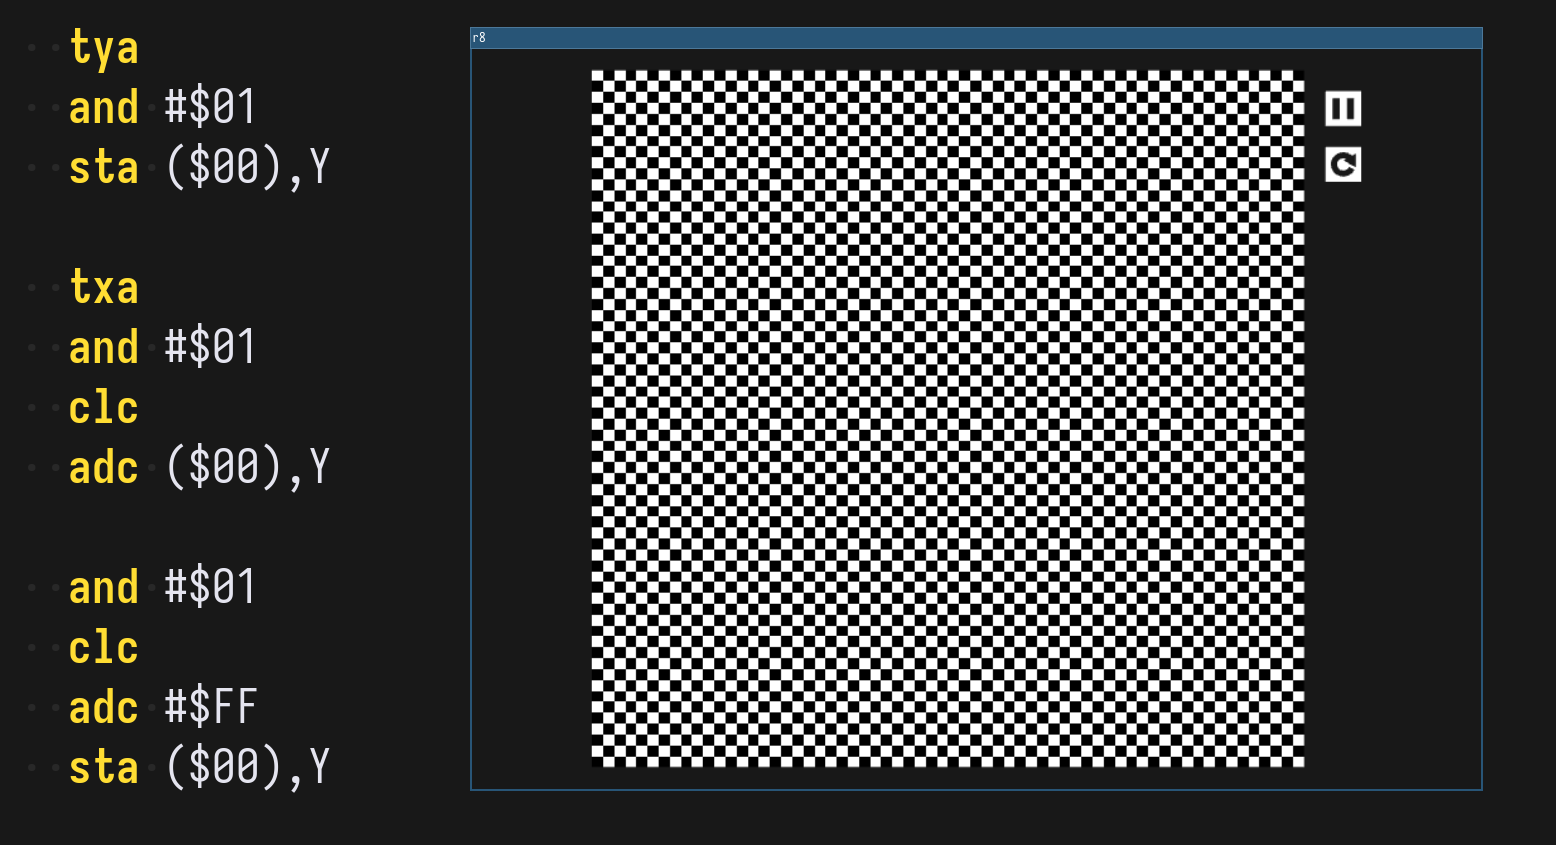
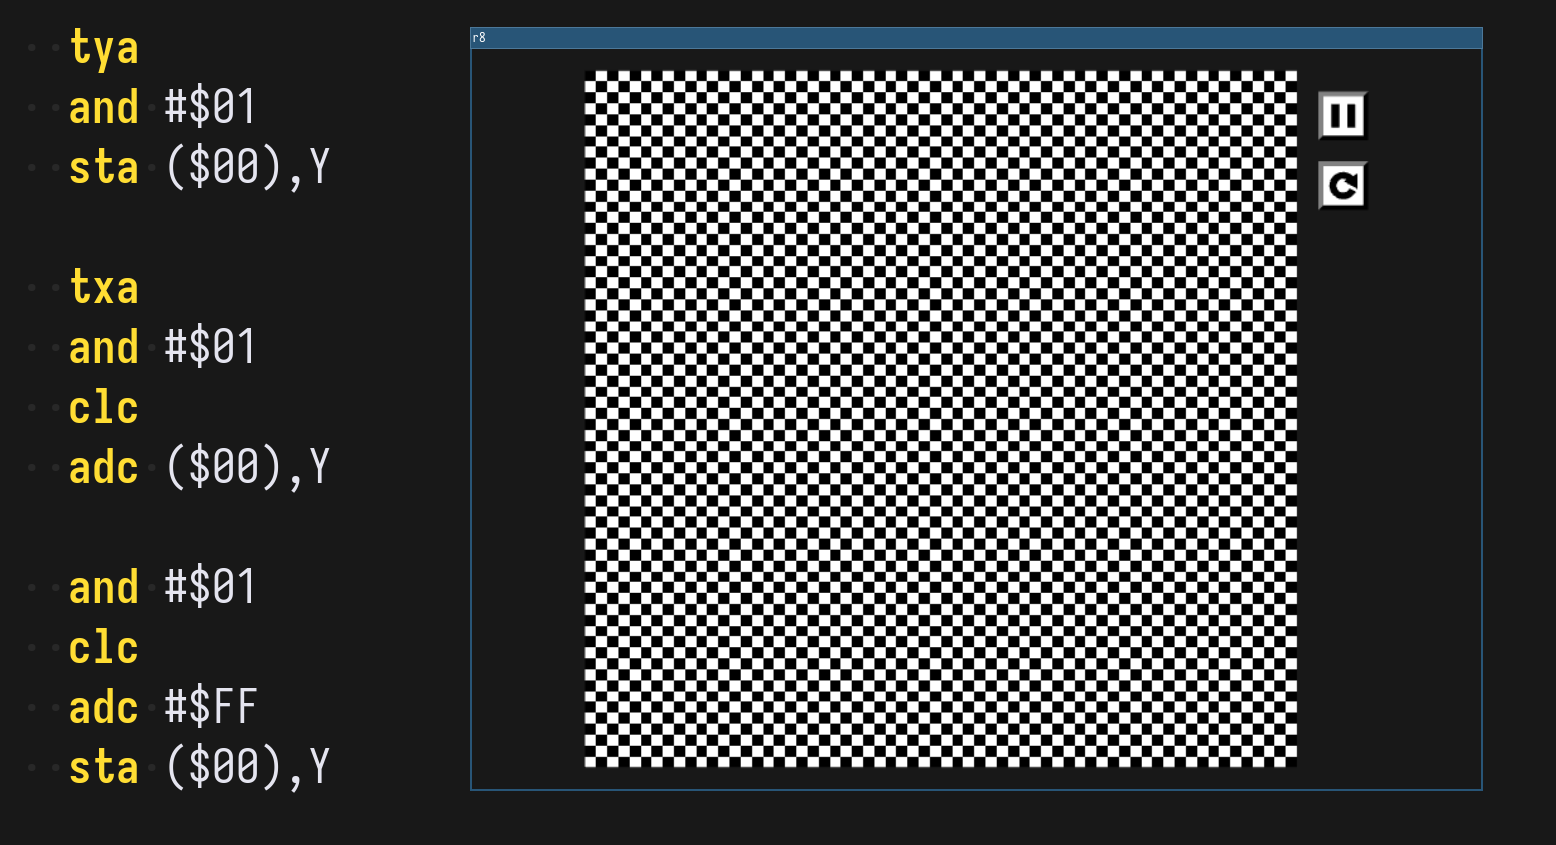
Give buttons retro 3D look and feel

Changed region(s): [[0.3702, 0.0615, 0.8946, 0.9231]]

diff --git a/src/r8.c b/src/r8.c
@@ -6,6 +6,7 @@
 #include "raylib.h"
 #include "raymath.h"
 #include "no_rom.c"
+#include "ui.h"
 
 #define UI_FPS 60 // The FPS the UI is running at
 #define DEFAULT_EMU_FPS 5 // Default FPS the 6502 emulator is running at
@@ -83,13 +84,6 @@ bool reload_rom(String_Builder *rom, const char *rom_path)
     return true;
 }
 
-void box_pad(Rectangle *a, float pad);
-void box_merge(Rectangle *a, Rectangle b);
-void play_icon(Rectangle button_box, Color color);
-void pause_icon(Rectangle button_box, Color color);
-void reset_icon(Rectangle button_box, Color color, Color background_color);
-bool button(Rectangle button_box, Camera2D camera, Color color);
-
 int main(int argc, char **argv)
 {
     const char *program_name = shift(argv, argc);
@@ -127,6 +121,8 @@ int main(int argc, char **argv)
     float global_timer = 0;
     bool pause = false;
     Rectangle ui_box = {0};
+    bool pause_button_down = false;
+    bool reset_button_down = false;
     while (!WindowShouldClose()) {
         if (IsKeyPressed(KEY_R) && IsKeyDown(KEY_LEFT_CONTROL)) {
             reload_rom(&rom, rom_path);
@@ -194,27 +190,24 @@ int main(int argc, char **argv)
                 Rectangle button_box = {0};
                 button_box.x      = canvas_box.x + canvas.width + margin_between_canvas_and_buttons;
                 button_box.y      = canvas_box.y + margin_between_canvas_and_buttons;
-                button_box.width  = canvas_box.width*0.05;
+                button_box.width  = canvas_box.width*0.07;
                 button_box.height = button_box.width;
 
-                Color icon_color   = GetColor(BACKGROUND_COLOR);
-                Color button_color = WHITE;
-
                 // Toggle Pause Button
-                if (button(button_box, camera, button_color)) pause = !pause;
-                if (pause) play_icon(button_box, icon_color); else pause_icon(button_box, icon_color);
+                if (button(&pause_button_down, button_box, pause ? play_icon : pause_icon, camera)) {
+                    pause = !pause;
+                }
                 box_merge(&ui_box, button_box);
 
                 // Reset Button
                 button_box.y += button_box.height + margin_between_canvas_and_buttons;
-                if (button(button_box, camera, button_color)) {
+                if (button(&reset_button_down, button_box, reset_icon, camera)) {
                     reload_rom(&rom, rom_path);
                     call_vector(ENTRY_POINT);
                 }
                 box_merge(&ui_box, button_box);
-                reset_icon(button_box, icon_color, WHITE);
 
-                box_pad(&ui_box, 2);
+                ui_box = box_pad(ui_box, 2);
             } EndMode2D();
         } EndDrawing();
     }
@@ -224,99 +217,4 @@ int main(int argc, char **argv)
     return 0;
 }
 
-void box_merge(Rectangle *a, Rectangle b)
-{
-    if (b.x < a->x) {
-        a->x = b.x;
-    }
-    if (b.y < a->y) {
-        a->y = b.y;
-    }
-    if (a->x + a->width < b.x + b.width) {
-        a->width = b.x + b.width;
-    }
-    if (a->y + a->height < b.y + b.height) {
-        a->height = b.y + b.height;
-    }
-}
-
-void box_pad(Rectangle *a, float pad)
-{
-    a->x      -= pad;
-    a->y      -= pad;
-    a->width  += pad*2;
-    a->height += pad*2;
-}
-
-void play_icon(Rectangle button_box, Color color)
-{
-    float icon_padding_left   = 0.3*button_box.width;
-    float icon_padding_right  = 0.2*button_box.width;
-    float icon_padding_top    = 0.2*button_box.width;
-    float icon_padding_bottom = 0.2*button_box.width;
-    Vector2 v1 = {button_box.x + icon_padding_left, button_box.y + icon_padding_top};
-    Vector2 v2 = {button_box.x + icon_padding_left, button_box.y + button_box.height - icon_padding_bottom};
-    Vector2 v3 = {button_box.x + button_box.width - icon_padding_right, button_box.y + button_box.height*0.5};
-    DrawTriangle(v1, v2, v3, color);
-}
-
-void pause_icon(Rectangle button_box, Color color)
-{
-    float icon_padding = 0.2*button_box.width;
-    Rectangle pause_icon_box = {
-        .x      = button_box.x + icon_padding,
-        .y      = button_box.y + icon_padding,
-        .width  = button_box.width - icon_padding - icon_padding,
-        .height = button_box.height - icon_padding - icon_padding,
-    };
-    DrawRectangleRec((Rectangle) {
-        .x      = pause_icon_box.x,
-        .y      = pause_icon_box.y,
-        .width  = pause_icon_box.width/3.,
-        .height = pause_icon_box.height,
-    }, color);
-    DrawRectangleRec((Rectangle) {
-        .x      = pause_icon_box.x + pause_icon_box.width*2./3.,
-        .y      = pause_icon_box.y,
-        .width  = pause_icon_box.width/3.,
-        .height = pause_icon_box.height,
-    }, color);
-}
-
-void reset_icon(Rectangle button_box, Color color, Color background_color)
-{
-    float radius = 0.35*fminf(button_box.width, button_box.height);
-
-    Vector2 center = {
-        .x = button_box.x + button_box.width*0.5,
-        .y = button_box.y + button_box.height*0.5,
-    };
-
-    float gap_angle = 50;
-    DrawCircleSector(center, radius, gap_angle*0.5, 360 - gap_angle*0.5, 20, color);
-    DrawCircleV(center, radius*0.5, background_color);
-
-    // Arrow
-    {
-        Vector2 v = {1, 0};
-        v = Vector2Rotate(v, -0.5*gap_angle*DEG2RAD);
-
-        Vector2 c = center;
-        c = Vector2Add(c, Vector2Scale(v, radius*0.75));
-
-        float size = 0.65*radius;
-        v = Vector2Rotate(v, 85*DEG2RAD);
-        Vector2 v1 = Vector2Add(c, Vector2Scale(v, size));
-        Vector2 v2 = Vector2Add(c, Vector2Scale(Vector2Rotate(v, -120*DEG2RAD), size));
-        Vector2 v3 = Vector2Add(c, Vector2Scale(Vector2Rotate(v, 120*DEG2RAD), size));
-        DrawTriangle(v1, v2, v3, color);
-    }
-}
-
-bool button(Rectangle button_box, Camera2D camera, Color color)
-{
-    DrawRectangleRec(button_box, color);
-    bool hover = CheckCollisionPointRec(GetScreenToWorld2D(GetMousePosition(), camera), button_box);
-    bool click = IsMouseButtonPressed(MOUSE_BUTTON_LEFT);
-    return (hover && click);
-}
+#include "ui.c"

diff --git a/src/ui.c b/src/ui.c
@@ -1,0 +1,134 @@
+#include "ui.h"
+
+#define ICON_COLOR         BLACK
+#define BUTTON_COLOR       WHITE
+#define BUTTON_SHADE_COLOR BLACK
+#define BUTTON_RIM_COLOR   GRAY
+
+void box_merge(Rectangle *a, Rectangle b)
+{
+    if (b.x < a->x) {
+        a->x = b.x;
+    }
+    if (b.y < a->y) {
+        a->y = b.y;
+    }
+    if (a->x + a->width < b.x + b.width) {
+        a->width = b.x + b.width;
+    }
+    if (a->y + a->height < b.y + b.height) {
+        a->height = b.y + b.height;
+    }
+}
+
+Rectangle box_pad(Rectangle a, float pad)
+{
+    a.x      -= pad;
+    a.y      -= pad;
+    a.width  += pad*2;
+    a.height += pad*2;
+    return a;
+}
+
+void play_icon(Rectangle box)
+{
+    float icon_padding_left   = 0.3*box.width;
+    float icon_padding_right  = 0.2*box.width;
+    float icon_padding_top    = 0.2*box.width;
+    float icon_padding_bottom = 0.2*box.width;
+    Vector2 v1 = {box.x + icon_padding_left, box.y + icon_padding_top};
+    Vector2 v2 = {box.x + icon_padding_left, box.y + box.height - icon_padding_bottom};
+    Vector2 v3 = {box.x + box.width - icon_padding_right, box.y + box.height*0.5};
+    DrawTriangle(v1, v2, v3, ICON_COLOR);
+}
+
+void pause_icon(Rectangle box)
+{
+    float icon_padding = 0.2*box.width;
+    Rectangle pause_icon_box = {
+        .x      = box.x + icon_padding,
+        .y      = box.y + icon_padding,
+        .width  = box.width - icon_padding - icon_padding,
+        .height = box.height - icon_padding - icon_padding,
+    };
+    DrawRectangleRec((Rectangle) {
+        .x      = pause_icon_box.x,
+        .y      = pause_icon_box.y,
+        .width  = pause_icon_box.width/3.,
+        .height = pause_icon_box.height,
+    }, ICON_COLOR);
+    DrawRectangleRec((Rectangle) {
+        .x      = pause_icon_box.x + pause_icon_box.width*2./3.,
+        .y      = pause_icon_box.y,
+        .width  = pause_icon_box.width/3.,
+        .height = pause_icon_box.height,
+    }, ICON_COLOR);
+}
+
+void reset_icon(Rectangle box)
+{
+    float radius = 0.35*fminf(box.width, box.height);
+
+    Vector2 center = {
+        .x = box.x + box.width*0.5,
+        .y = box.y + box.height*0.5,
+    };
+
+    float gap_angle = 50;
+    DrawCircleSector(center, radius, gap_angle*0.5, 360 - gap_angle*0.5, 20, ICON_COLOR);
+    DrawCircleV(center, radius*0.5, BUTTON_COLOR);
+
+    // Arrow
+    {
+        Vector2 v = {1, 0};
+        v = Vector2Rotate(v, -0.5*gap_angle*DEG2RAD);
+
+        Vector2 c = center;
+        c = Vector2Add(c, Vector2Scale(v, radius*0.75));
+
+        float size = 0.65*radius;
+        v = Vector2Rotate(v, 85*DEG2RAD);
+        Vector2 v1 = Vector2Add(c, Vector2Scale(v, size));
+        Vector2 v2 = Vector2Add(c, Vector2Scale(Vector2Rotate(v, -120*DEG2RAD), size));
+        Vector2 v3 = Vector2Add(c, Vector2Scale(Vector2Rotate(v, 120*DEG2RAD), size));
+        DrawTriangle(v1, v2, v3, ICON_COLOR);
+    }
+}
+
+bool button(bool *down, Rectangle button_box, void (*icon)(Rectangle box), Camera2D camera)
+{
+    bool hover = CheckCollisionPointRec(GetScreenToWorld2D(GetMousePosition(), camera), button_box);
+    float unit = fminf(button_box.width, button_box.height);
+    float thicc = 0.1*unit;
+    Vector2 v1 = {button_box.x, button_box.y};
+    Vector2 v2 = {button_box.x, button_box.y + button_box.height};
+    Vector2 v3 = {button_box.x + button_box.width, button_box.y};
+    Vector2 v4 = {button_box.x + button_box.width, button_box.y + button_box.height};
+    if (*down) {
+        DrawTriangle(v1, v2, v3, BUTTON_SHADE_COLOR);
+        DrawTriangle(v3, v2, v4, BUTTON_RIM_COLOR);
+    } else {
+        DrawTriangle(v1, v2, v3, BUTTON_RIM_COLOR);
+        DrawTriangle(v3, v2, v4, BUTTON_SHADE_COLOR);
+    }
+    button_box = box_pad(button_box, -thicc);
+    DrawRectangleRec(button_box, BUTTON_COLOR);
+    if (*down) {
+        button_box.x += 0.02*unit;
+        button_box.y += 0.02*unit;
+        icon(button_box);
+    } else {
+        icon(button_box);
+    }
+    if (!*down) {
+        if (hover && IsMouseButtonPressed(MOUSE_BUTTON_LEFT)) {
+            *down = true;
+        }
+    } else {
+        if (IsMouseButtonReleased(MOUSE_BUTTON_LEFT)) {
+            *down = false;
+            return hover;
+        }
+    }
+    return false;
+}

diff --git a/src/ui.h b/src/ui.h
@@ -1,0 +1,11 @@
+#ifndef UI_H_
+#define UI_H_
+
+Rectangle box_pad(Rectangle a, float pad);
+void box_merge(Rectangle *a, Rectangle b);
+void play_icon(Rectangle box);
+void pause_icon(Rectangle box);
+void reset_icon(Rectangle box);
+bool button(bool *down, Rectangle button_box, void (*icon)(Rectangle button_box), Camera2D camera);
+
+#endif // UI_H_
